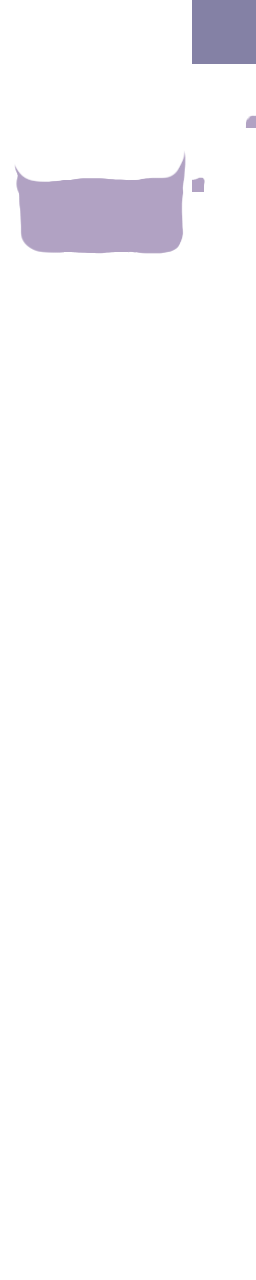
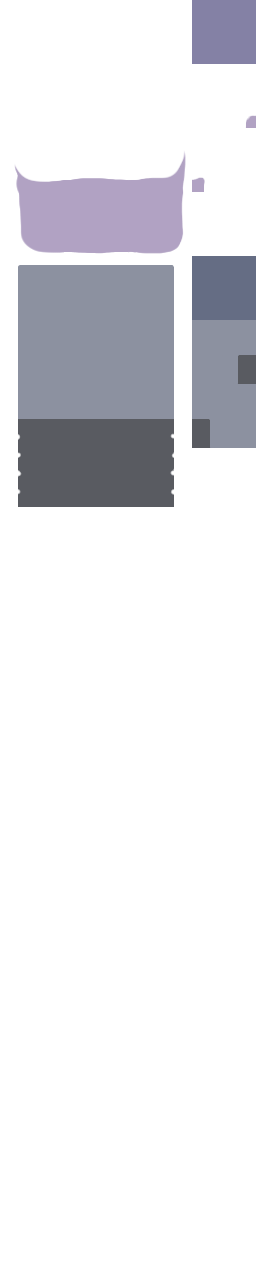
Merge master changes into builderdev

Changed region(s): [[0.0625, 0.1875, 0.6875, 0.4062], [0.75, 0.1875, 1.0, 0.375]]

diff --git a/scripts/talking.js b/scripts/talking.js
@@ -16,34 +16,6 @@ var script_pause = 0;
 const no_item = -1;
 var calling_npc = null
 
-/*base variables
-BOX_X
-BOX_Y
-BOX_IMAGE
-*/
-
-/* Sample Script */
-
-// blank
-// blank
-// error with command
-// This is a name
-// nothing
-// error converting image
-label_name = [
-"some text and blah blah blah blah blah",
-"some more text",
-{name: "This is a name"},
-{show: "block", x:0, y:0},
-{show: "block", position: right},
-"Yeet",
-{hide: right},
-{change: box, x:10, y:400},
-{change: text, font: spr.font}, //??? sounds like a bad idea
-"Some intro text@some more intro text",
-"Even more intro text and more text and more text@plenty more text to give use lots of time@to press the button once."
-]
-
 // make the box and stuff
 var bt = {};
 bt.line = 0;
@@ -397,6 +369,86 @@ bt.Next = function() {
         localStorage.setItem(command.save, JSON.stringify(_save));
       }
 
+      else if (command.battle) {
+        // set battle variables
+        user_vars._enemy = command.battle;
+        user_vars._leader = party[0].name;
+        battle_data.enemy = new Monster(command.battle);
+        battle_data.leader = party[0];
+        battle_data.saved_dialogue = story.splice(bt.line);
+        // show images
+        battle_data.enemy_img.image = spr[enemies[command.battle].image];
+        battle_data.leader_img.image = spr[enemies[party[0].name].image];
+        battle_data.enemy_hp.text = battle_data.enemy.hp.toString();
+        battle_data.leader_hp.text = battle_data.leader.hp.toString();
+        screen_images.push(battle_data.enemy_img);
+        screen_images.push(battle_data.leader_img);
+        screen_images.push(battle_data.enemy_hp);
+        screen_images.push(battle_data.leader_hp);
+        // menu
+        let _current_index = bt.line + 3;
+        let _choices = party[0].moves.map(move => {
+          return [
+            move.name, [...move.effects, () => { bt.line = _current_index; }]
+          ];
+        });
+        bt.Insert(
+          {template:"A wild ${_enemy} appeared!"},
+          {template:"Go! ${_leader}!"},
+          {template:"What will ${_leader} do?"},
+          {menu: text, choices: _choices}
+        );
+      }
+
+      else if (command.damage) {
+        let _leader_ko;
+        let _enemy_ko;
+        if (command.target) {
+          _leader_ko = battle_data.leader.damage(command.damage)
+        } else {
+          _enemy_ko = battle_data.enemy.damage(command.damage)
+        }
+        battle_data.enemy_hp.text = battle_data.enemy.hp.toString();
+        battle_data.leader_hp.text = battle_data.leader.hp.toString();
+        if (_leader_ko) {
+          console.log("loss")
+          story = [
+            "You lose",
+            {transition:"fade"},
+            {pause:50},
+            () => { screen_images = [] },
+            "You scurried back to JIDA, protecting your weak and@injured Horsemen from further harm...",
+            {transition:"fade"},
+            {pause:50},
+            ...battle_data.saved_dialogue
+          ];
+          bt.line = 0;
+        }
+        if (_enemy_ko) {
+          story = [
+            "You win",
+            {transition:"fade"},
+            {pause:25},
+            () => { screen_images = [] },
+            {pause:25},
+            ...battle_data.saved_dialogue
+          ];
+          bt.line = 0;
+        }
+      }
+
+      else if (command.setvar) {
+        user_vars[command.setvar] = command.value
+      }
+
+      else if (command.template) {
+        chars_displayed = 0;
+        bt.adv.text.text = command.template.replace(/\$\{.*?\}/g, (match) => {
+          return user_vars[match.slice(2, -1)]
+        })
+        go = false;
+      }
+
       // otherwise, write a debug error
       else {
         console.log("Error with commands. Please check your script");
@@ -404,8 +456,6 @@ bt.Next = function() {
       }
 
     }
-
-    else { console.log("Error with command type. Please check your script"); }
 
   } // end while go
 

diff --git a/scripts/main.js b/scripts/main.js
@@ -159,7 +159,7 @@ function Preload() {
 function Text(x, y, text, color) {
   this.x = x;
   this.y = y;
-  this.text = text;
+  this.text = text || "";
   this.color = color || TEXT_COLOR;
   this.visible = true;
   this.draw = function() {
@@ -237,7 +237,7 @@ function Character(x, y, image) {
   this.visible = true;
   this.mask = {
     x: 0,
-    y: this.image ? this.image.height - GRIDSIZE : 0,
+    y: this.image ? this.image.height - GRIDSIZE / 2 : 0,
     width: GRIDSIZE,
     height: GRIDSIZE
   };
@@ -451,7 +451,12 @@ function Button(button) {
   this.calling_npc = button.calling_npc || false;
   this.action = button.action || function() {
     if (this.label) {
-      bt.Jump(this.label);
+      if (Array.isArray(this.label)) {
+        bt.Insert(...this.label);
+        bt.Next();
+      } else {
+        bt.Jump(this.label);
+      }
       in_menu = false;
     }
     else {
@@ -611,6 +616,40 @@ Menu.prototype.update_choice = function() {
   }
 }
 
+function Monster(name, level) {
+  this.name = name;
+  this.level = level;
+  this.hp = 80;
+  this.damage = function (amount) {
+    this.hp -= amount;
+    if (this.hp > 0) return false;
+    this.hp = 0;
+    return true;
+  }
+  this.moves = [
+    {
+      name: "Yeet",
+      effects: [
+        "\"Hya hya hya\"",
+        {template:"${_leader} yeets the opposing ${_enemy} across the arena"},
+        {damage:40}
+      ]
+    },
+    {
+      name: "Confusion",
+      effects: [
+        {template:"${_leader} hits itself in confusion!"},
+        {damage:40, target:"self"}
+      ]
+    }
+  ]
+}
+
+function BattleUi() {}
+BattleUi.prototype.draw = function() {
+  //
+}
+
 function spawn_npc(npc, solid = true) {
   if (!npc.spawn_condition || landscape[npc.spawn_condition]) {
     npc.x *= GRIDSIZE;
@@ -625,6 +664,7 @@ function spawn_npc(npc, solid = true) {
 // background
 var room_background = new Img(0, 0, BLANK_IMAGE);
 var npcs = [];
+var screen_images = [];
 // create level: make the correct blocks
 function create_level(lvl) {
   room.map = maps[lvl].map;

diff --git a/scripts/object.js b/scripts/object.js
@@ -12,6 +12,9 @@ var landscape = {
   bridge: true,
   telescope: true,
 };
+var user_vars = {};
+var party = [];
+var battle_data;
 var progress = 0;
 if (localStorage.getItem('save')) {
   var main_menu_item = [
@@ -41,11 +44,19 @@ for (let key of Object.keys(maps)) {
 // player
 player = new Player(0, 0, "mika");
 
+battle_data = {
+  leader_img: new Img(0, 300, false),
+  enemy_img: new Img(0, 0, false),
+  leader_hp: new Text(50, 300),
+  enemy_hp: new Text(600, 50)
+}
+
 // INTRO
 label.main_menu = [
 ()=>{
   player.visible = false;
   bt.adv.box.visible = false;
+  party.push(new Monster("Owlbear"));
 },
 {change:background, image:spr.main_menu},
 {menu:text,
@@ -55,7 +66,8 @@ label.main_menu = [
 label.serapoke_intro = [
 {change:background},
 {change:text, x:80, y:150},
-"Look at this totally epic opening text.",
+{battle:"Tarrasque"},
+{jump:"serapoke_init"},
 "Anyway, thank you for working with me! Definitely@can't do this on my own and I appreciate you a ton.",
 "I hope you have fun too!",
 {transition:"fade"},

diff --git a/scripts/loop.js b/scripts/loop.js
@@ -55,6 +55,9 @@ var render = function() {
   for (let npc of npcs) npc.draw()
   player.draw();
   room.ctx.restore();
+  for (let img of screen_images) {
+    img.draw();
+  }
   if (in_talk) {
 //    bt.box.draw();
     bt.adv.draw();
